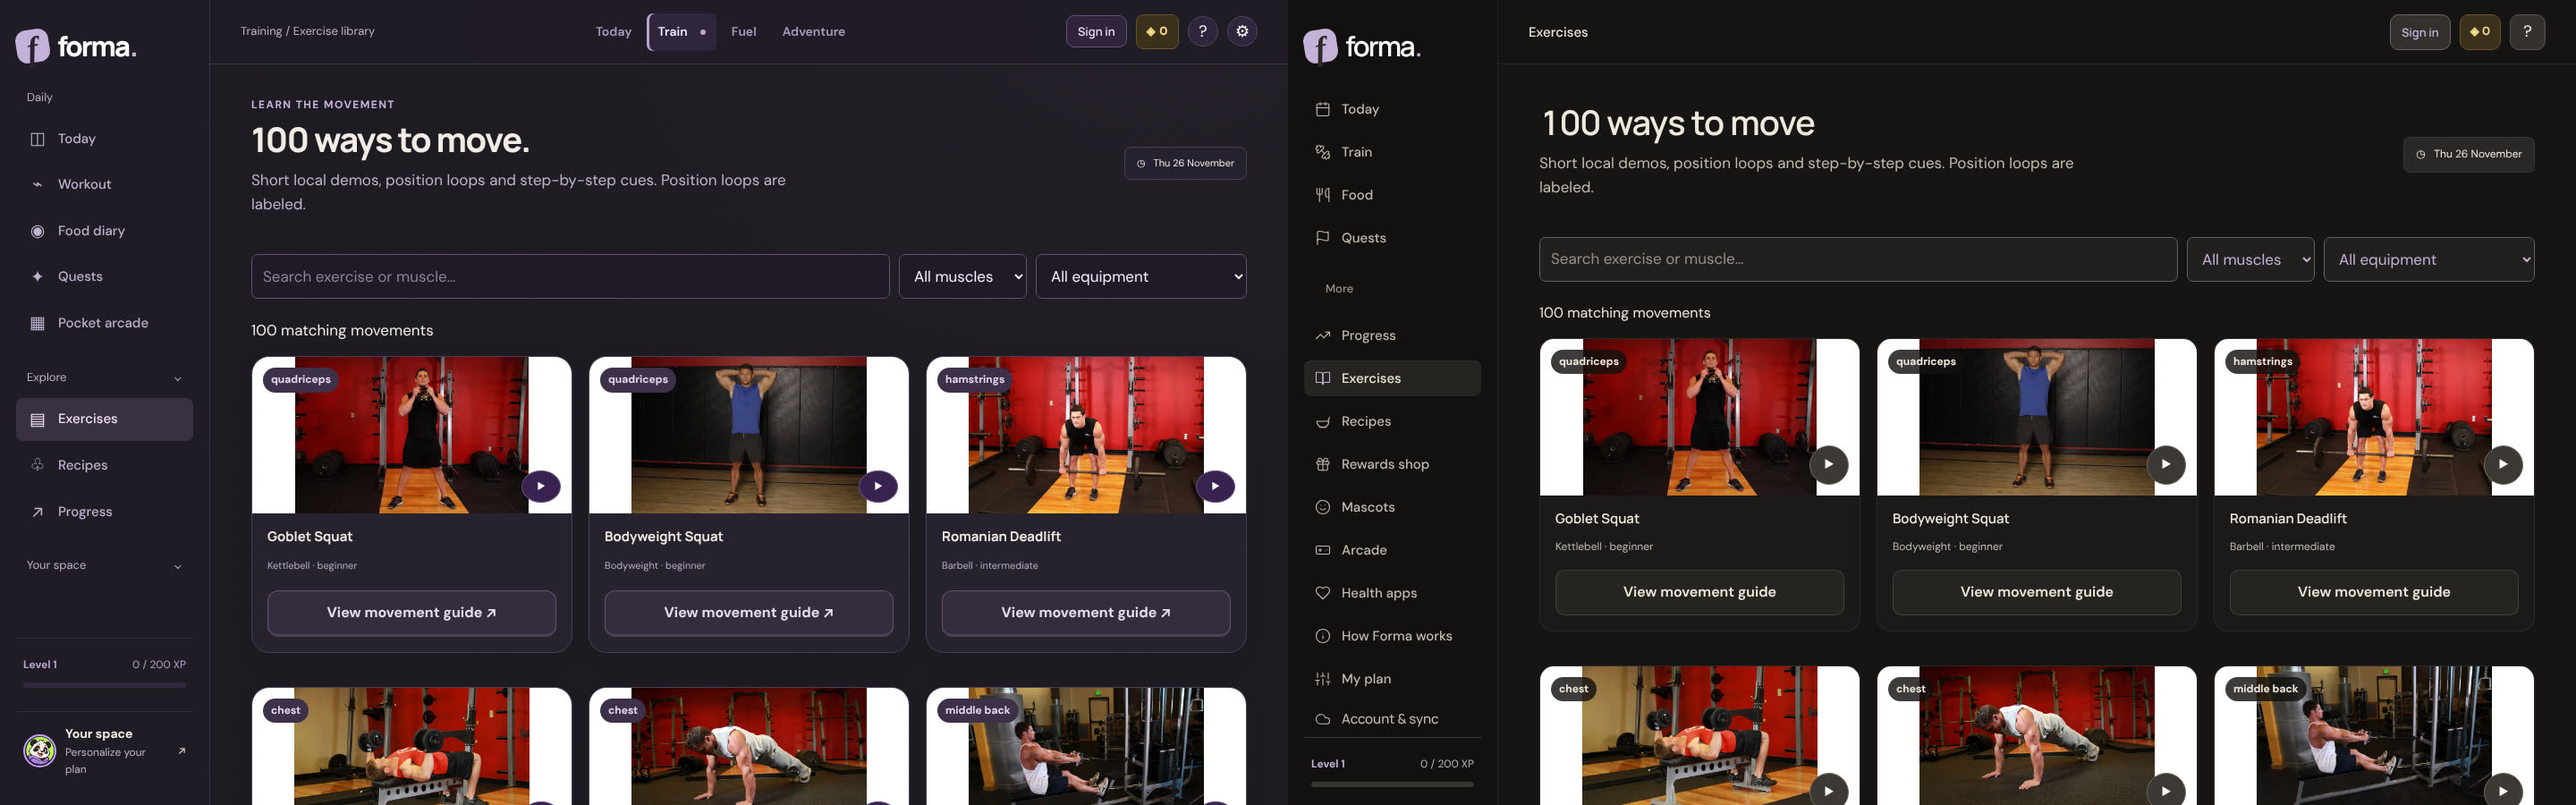
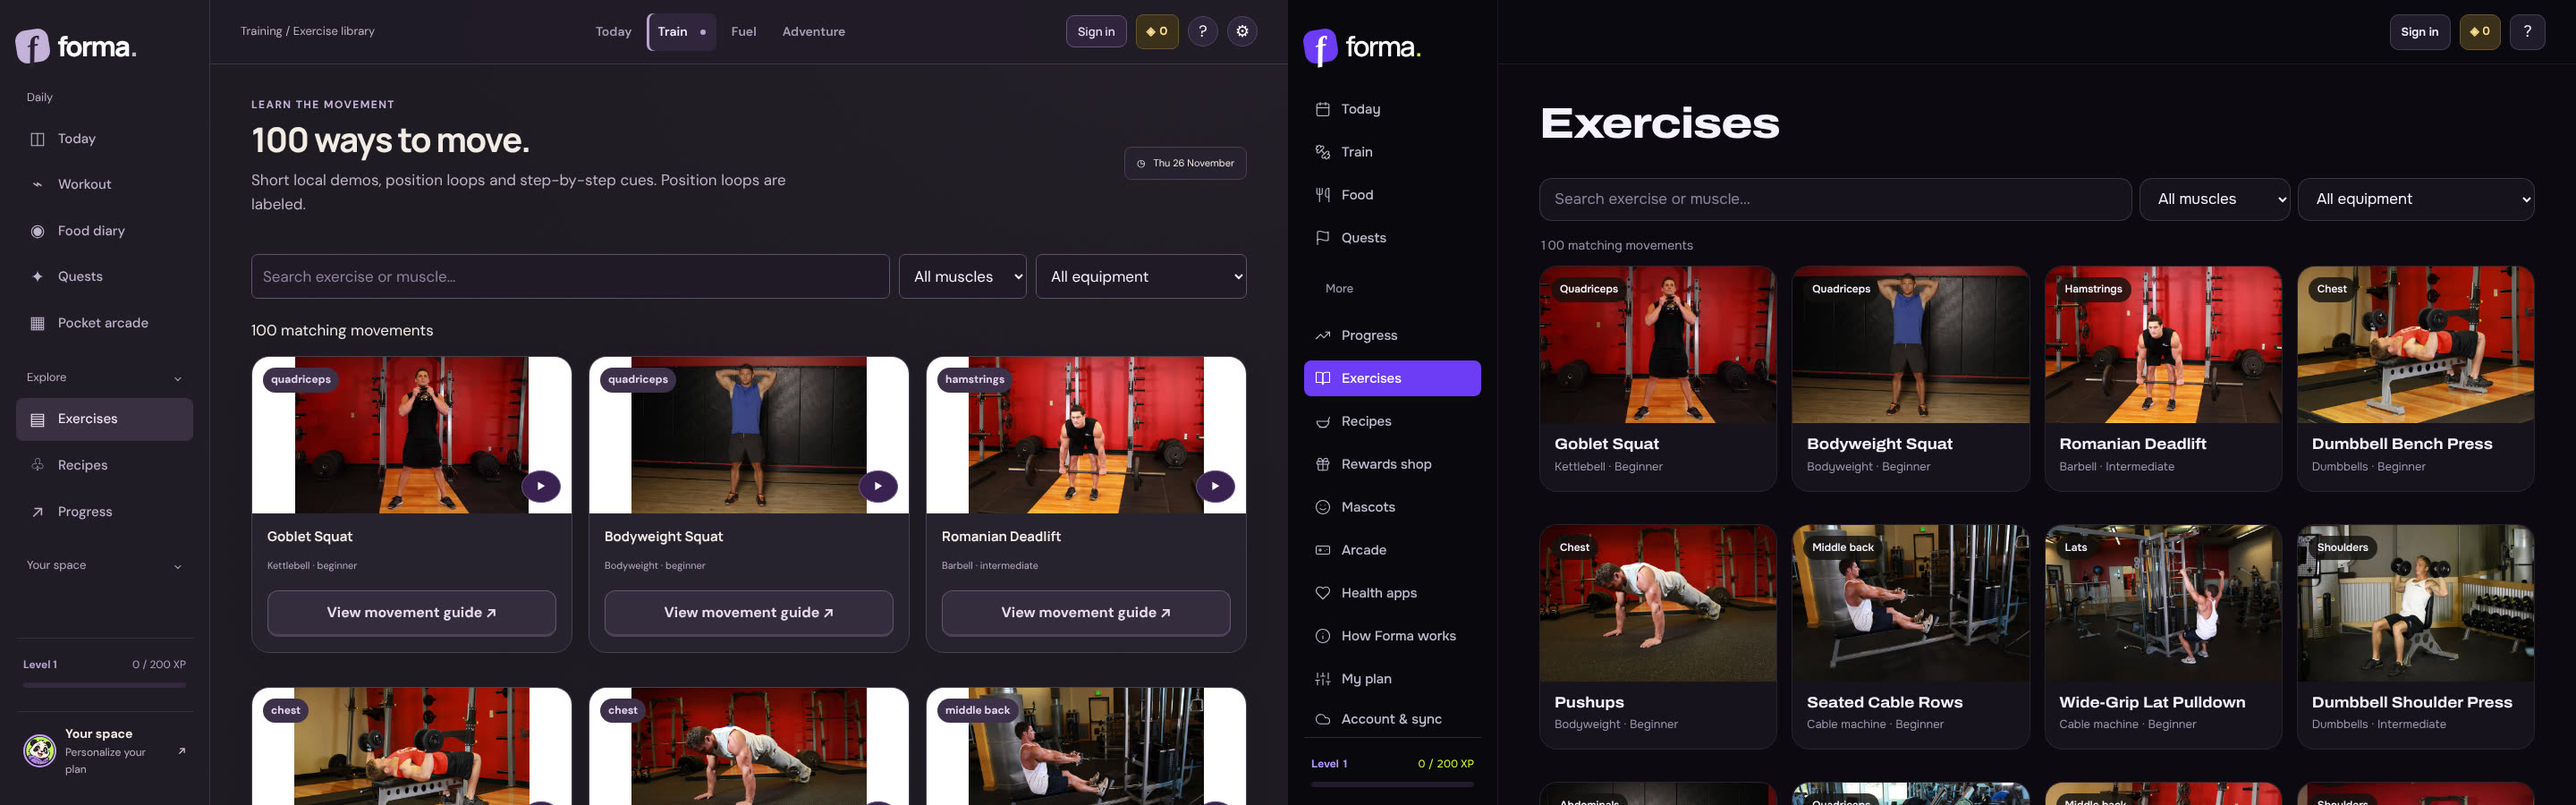
Forma: photo-first exercises and recipes, 3D shaker on Food
Claude-Session: https://claude.ai/code/session_01Lz2xVdFWNsyN3Vr9Az16rG

diff --git a/redesigns/forma-gym-companion/site/polish.css b/redesigns/forma-gym-companion/site/polish.css
@@ -412,3 +412,65 @@ button.tile:active { transform: scale(.985); }
 .clean-workout-plan .row small { color: var(--muted); }
 .clean-workout-plan .movement-number { color: var(--muted); font-family: var(--display); font-weight: 700; }
 .clean-workout-plan .quiet-card h2 { font-size: 32px; }
+
+/* ---------- Exercises and Recipes: photo first ---------- */
+
+/* Filter bar: search on its own line, filters as pills; nothing truncates on a phone */
+.toolbar { display: grid !important; grid-template-columns: minmax(0, 1fr) auto auto; gap: 8px; margin-bottom: 16px; }
+.toolbar input, .toolbar select { min-height: 48px; border-radius: 14px !important; background: var(--paper) !important; border: 1px solid var(--line-strong) !important; color: var(--ink) !important; padding: 0 16px; font-size: 15px; }
+.toolbar select { padding-right: 36px; }
+#app > p { color: var(--muted); font-size: 14px; margin: 0 0 12px; }
+@media (max-width: 760px) {
+  .toolbar { grid-template-columns: 1fr 1fr; }
+  .toolbar input { grid-column: 1 / -1; }
+  .toolbar select { width: 100%; min-width: 0; }
+}
+
+/* Exercise cards: the card is the button */
+#app .grid { display: grid !important; grid-template-columns: repeat(auto-fill, minmax(220px, 1fr)); gap: 16px; }
+.move-card { display: flex !important; flex-direction: column; padding: 0 !important; overflow: hidden; text-align: left; cursor: pointer; width: 100%; color: var(--ink); transition: transform 150ms var(--ease), border-color 150ms var(--ease); }
+.move-card:hover { border-color: var(--line-strong) !important; transform: translateY(-2px); }
+.move-card:active { transform: scale(.985); }
+.move-card .image-wrap { display: block; position: relative; aspect-ratio: 4 / 3; overflow: hidden; }
+.move-card .image-wrap img { width: 100%; height: 100%; object-fit: cover; display: block; transition: transform 300ms var(--ease); }
+.move-card:hover .image-wrap img { transform: scale(1.03); }
+.move-card .pill { position: absolute; left: 12px; top: 12px; font-size: 12px; font-weight: 600; padding: 4px 10px; border-radius: 999px; }
+.move-card .info { display: flex; flex-direction: column; gap: 4px; padding: 14px 16px 16px; }
+.mc-name, .fc-name { font-family: var(--display); font-stretch: 110%; font-variation-settings: "wdth" 110; font-weight: 700; font-size: 17px; line-height: 1.2; }
+.move-card small { color: var(--muted); font-size: 13px; }
+
+/* Recipe cards: photo, name, one line of numbers, a round add button */
+.food-card { position: relative; padding: 0 !important; overflow: hidden; display: block !important; }
+.fc-open { display: flex; flex-direction: column; width: 100%; padding: 0; border: 0; background: none; color: var(--ink); text-align: left; cursor: pointer; }
+.fc-img { display: block; position: relative; aspect-ratio: 4 / 3; overflow: hidden; }
+.fc-img img { width: 100%; height: 100%; object-fit: cover; display: block; transition: transform 300ms var(--ease); }
+.food-card:hover .fc-img img { transform: scale(1.03); }
+.food-card .pill { position: absolute; left: 12px; top: 12px; font-size: 12px; font-weight: 600; padding: 4px 10px; border-radius: 999px; background: rgba(9, 8, 12, .78) !important; color: var(--ink) !important; border: 0 !important; }
+.food-card .info { display: flex; flex-direction: column; gap: 6px; padding: 14px 16px 18px; }
+.fc-meta { display: flex; flex-wrap: wrap; gap: 4px 12px; color: var(--muted); font-size: 13px; }
+.fc-meta b { color: var(--ink); font-family: var(--display); font-weight: 700; font-size: 15px; }
+.fc-pantry { font-size: 13px; color: var(--accent); }
+.fc-pantry.is-ready { color: var(--volt); }
+.fc-add { position: absolute; right: 12px; top: 12px; width: 44px; height: 44px; border-radius: 50%; border: 0; background: var(--volt); color: var(--volt-ink); font-size: 24px; font-weight: 600; line-height: 1; display: grid; place-items: center; cursor: pointer; transition: transform 120ms var(--ease), background-color 150ms var(--ease); }
+.fc-add:hover { background: #e2ff70; }
+.fc-add:active { transform: scale(.94); }
+
+/* Food: water card with the 3D shaker */
+.water-card { display: grid !important; grid-template-columns: 96px minmax(0, 1fr); grid-template-rows: auto auto; column-gap: 16px; align-items: center; }
+.water-card .obj3d { grid-row: 1 / span 2; grid-area: auto; width: 96px; height: 150px; aspect-ratio: auto; min-height: 0; margin: 0; }
+.water-card > p.muted { display: none !important; }
+.water-card h3 { margin: 0; align-self: end; }
+.water-card .water { align-self: start; display: flex; align-items: center; flex-wrap: wrap; gap: 8px 12px; margin-top: 8px; }
+.water-card .water b { font-family: var(--display); font-stretch: 118%; font-variation-settings: "wdth" 118; font-weight: 800; font-size: 32px; }
+/* Less text on Food: the helper paragraph under "Something good to eat?" and the estimate notice */
+#app .card > h3 + p.muted { display: none; }
+.water-card { grid-template-columns: 72px minmax(0, 1fr); column-gap: 12px; }
+.water-card .obj3d { width: 72px; height: 124px; }
+.water-card .water b { font-size: 28px; white-space: nowrap; }
+@media (max-width: 760px) {
+  .toolbar select { font-size: 14px; padding: 0 28px 0 12px; }
+}
+.water-card .obj3d { grid-area: 1 / 1 / 3 / 2 !important; }
+.water-card h3 { grid-area: 1 / 2 / 2 / 3; }
+.water-card .water { grid-area: 2 / 2 / 3 / 3; }
+.btn.small { min-height: 44px !important; }

diff --git a/redesigns/forma-gym-companion/site/polish.js b/redesigns/forma-gym-companion/site/polish.js
@@ -55,8 +55,9 @@ function setDots(n, label = true) {
 }
 
 const VOLT_PALETTE = '{"bg":"#5b2ee0","surface":"#5b2ee0","ink":"#ffffff","accent":"#d4ff3a"}';
-function object3D(spec, label, extra = '') {
-  return `<div class="obj3d" data-product="assets/objects/product-render/specs/${spec}.json" data-product-place="card" data-product-color="volt" data-product-params='{"turn":1}' data-product-palette='${VOLT_PALETTE}' aria-label="${label}" role="img" ${extra}></div>`;
+const PAPER_PALETTE = '{"bg":"#16131d","surface":"#16131d","ink":"#f5f2ff","accent":"#d4ff3a"}';
+function object3D(spec, label, extra = '', palette = VOLT_PALETTE, turn = 1) {
+  return `<div class="obj3d" data-product="assets/objects/product-render/specs/${spec}.json" data-product-place="card" data-product-color="volt" data-product-params='{"turn":${turn}}' data-product-palette='${palette}' aria-label="${label}" role="img" ${extra}></div>`;
 }
 
 function sessionCard() {
@@ -122,6 +123,37 @@ function questsHero() {
     <span class="xp-track"><i style="width:${g.into / 2}%"></i></span><p class="ts-meta"><b>◈ ${coinBalance()}</b> coins to spend</p></div>${object3D('trophy', 'A volt-green trophy')}</section>`;
 }
 
+/* Exercises: the whole card opens the guide; photo, muscle, name, kit */
+const cap = t => String(t || '').charAt(0).toUpperCase() + String(t || '').slice(1);
+function exerciseCard(e) {
+  return `<button class="card exercise-card move-card" onclick="showExercise(${e.key})" aria-label="${esc(e.name)}, ${esc(e.equipmentLabel)}, ${esc(e.level)}">
+    <span class="image-wrap"><img loading="lazy" src="${e.images[0]}" alt=""><span class="pill">${esc(cap(e.primaryMuscles[0]))}</span></span>
+    <span class="info"><b class="mc-name">${esc(e.name)}</b><small>${esc(e.equipmentLabel)} · ${esc(cap(e.level))}</small></span></button>`;
+}
+
+/* Recipes: photo first, then name, then one line of numbers */
+function recipeCard(m) {
+  const t = mealTotals(m), f = foodFilters(), missing = missingFor(m);
+  const pantry = f.fridge !== 'off' ? `<span class="fc-pantry ${missing.length ? '' : 'is-ready'}">${missing.length ? `Missing ${missing.length}` : 'You have everything'}</span>` : '';
+  return `<article class="card meal-card food-card">
+    <button class="fc-open" onclick="showRecipe(${m.id})" aria-label="Open ${esc(m.name)}">
+      <span class="fc-img"><img loading="lazy" src="assets/${m.img}" alt="Illustration of a meal style, not this exact recipe"><span class="pill">${esc(m.tag)}</span></span>
+      <span class="info"><b class="fc-name">${esc(m.name)}</b><span class="fc-meta"><span><b>${n(t.calories)}</b> kcal</span><span><b>${n(t.protein)}</b> g protein</span><span><b>${m.time}</b> min</span></span>${pantry}</span>
+    </button>
+    <button class="fc-add" onclick="addToPlan(${m.id},1)" aria-label="Add ${esc(m.name)} to your menu">+</button></article>`;
+}
+
+/* Food: the water card gets the 3D shaker */
+function polishFood() {
+  const water = document.querySelector('#app .water');
+  const card = water?.closest('.card');
+  if (!card || card.classList.contains('water-card')) return;
+  card.classList.add('water-card');
+  const h = card.querySelector('h3');
+  if (h) h.textContent = 'Water';
+  card.insertAdjacentHTML('afterbegin', object3D('shaker', 'A volt-green shaker bottle', '', PAPER_PALETTE, 0));
+}
+
 /* Copy pass. Runs after every render and on anything added later (dialogs, toasts). */
 const ACRONYMS = /\b(xp|acsm|cdc|usda|bmr|tdee|rpe|rir|pr|ai|uk|us|id|kg|kcal)\b/g;
 const DECOR = /^[⚙✦♧]\s*/;
@@ -182,6 +214,7 @@ render = function () {
   originalRender();
   polishChrome();
   if (view === 'quests' && !document.querySelector('.quests-hero')) document.querySelector('#app .topline')?.insertAdjacentHTML('afterend', questsHero());
+  if (view === 'nutrition') polishFood();
   polishText(document.body);
   window.formaMount3D?.();
 };

diff --git a/redesigns/forma-gym-companion/README.md b/redesigns/forma-gym-companion/README.md
@@ -68,6 +68,15 @@ The original files are untouched except `index.html` (two tags added, Cloudflare
 - **Structure.** Today is a grid: the session card with the dumbbell leads; mission ring, level and next meal sit beside it; three stat tiles below. Quests opens with a violet card: XP to the next level, coins and the trophy.
 - Same checks as before still pass: 0 text under 12px, 0 misused arrows, 0 ALL CAPS labels, 21 small tap targets on a phone.
 
+## v4: Exercises, Recipes and Food
+
+Research first (sources: [HubFit library layouts](https://blog.hubfit.com/blog/on-demand-workout-library-section-layouts), [Everfit filters](https://blog.everfit.io/?p=3226), [screensdesign on exercise substitution](https://screensdesign.com/articles/workout-app-exercise-substitution-ux/), [Tubik recipe card experiments](https://tubikstudio.com/blog/ui-experiments-options-for-recipe-cards-in-a-food-app/), [Gousto recipe card redesign](https://medium.com/gousto-engineering-techbrunch/how-gousto-made-it-easier-to-choose-recipes-by-redesigning-their-digital-recipe-cards-b374b47b6197)). What they agree on, and what was built:
+
+- **Exercise library:** search plus muscle and equipment filters, a grid of photo cards, no sideways scrolling on phones. Each card is now one button (photo, muscle tag, name, kit and level). The "View movement guide" button on every card is gone.
+- **Recipe cards:** big photo, then a clear vertical order. Each card shows the name and one line of numbers (kcal, protein, minutes) instead of four macro chips and a sentence. The whole card opens the recipe; a round lime "+" adds it to your menu.
+- **Food:** the water card has a 3D shaker bottle (`specs/shaker.json`, 6 parts), shown as a still. The title is now "Water".
+- **Less text:** visible text elements across the 8 measured phone screens went from 802 (original) to 577. Exercises alone: 118 to 68.
+
 ## Not done (suggestions for the owner)
 
 - **Feature count.** 14 sections for a beginner's gym app is a lot (Hick's law). Arcade, Mascots and the Rewards shop could live inside Quests.
